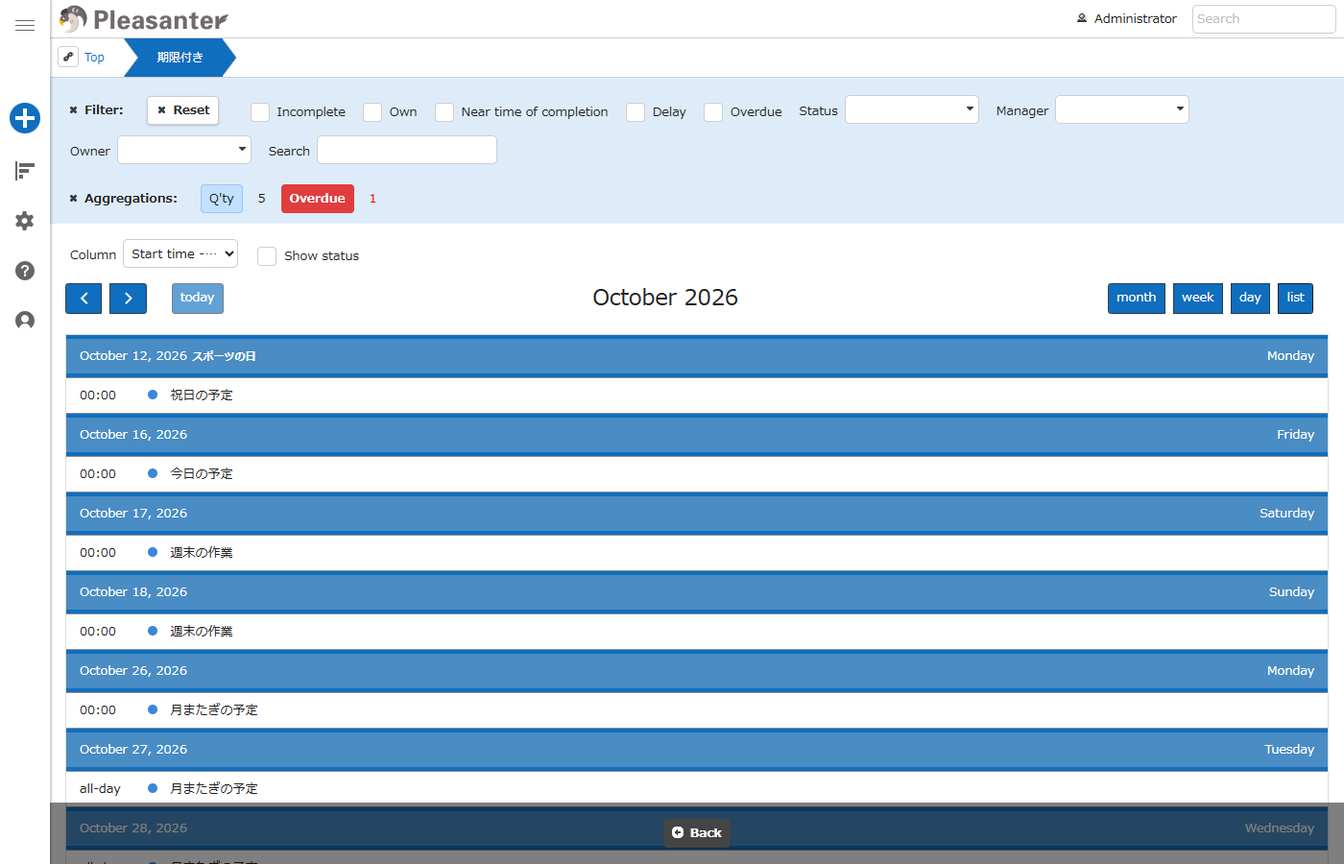
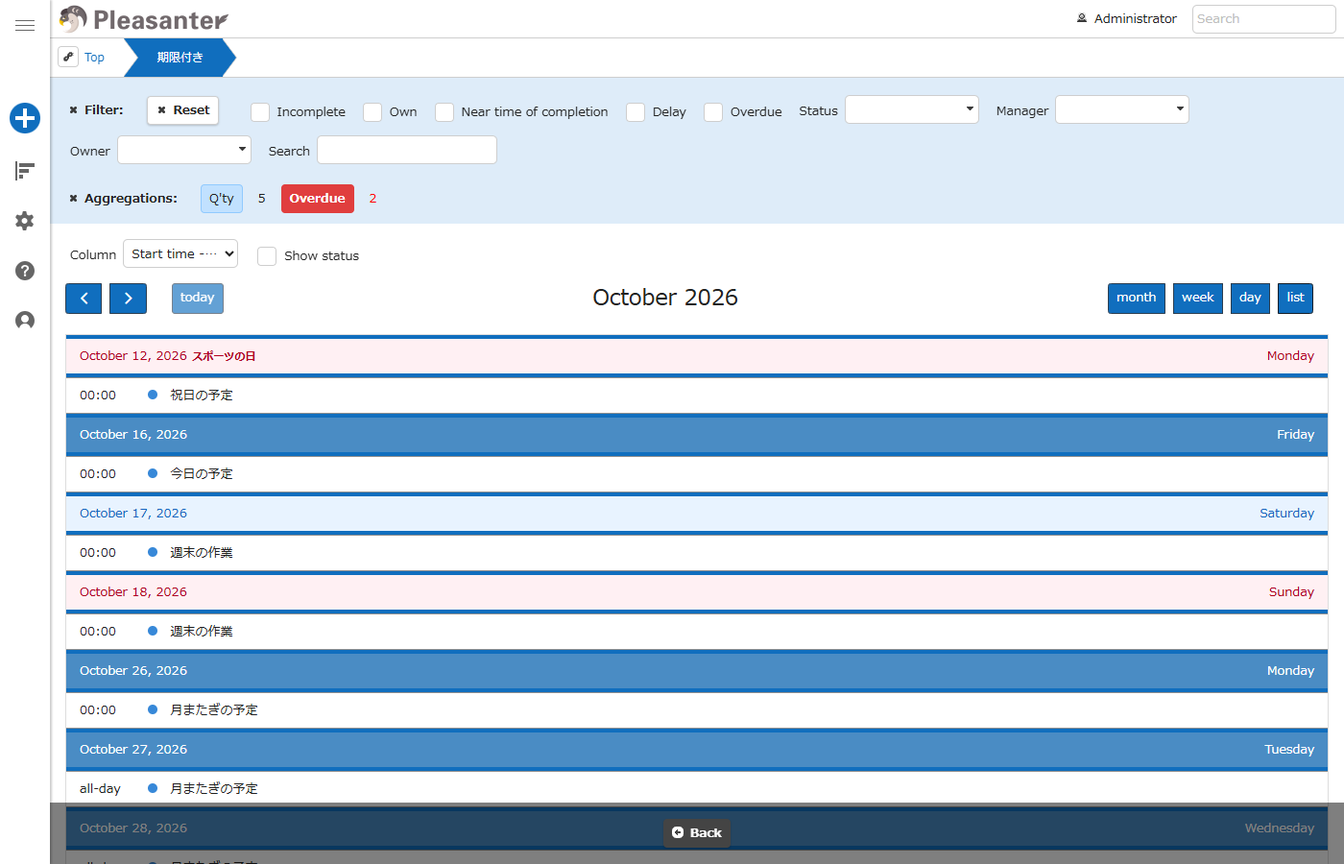
日付ごとの種類（日祝・土・平日）と取得元の併用、FullCalendar リスト表示の土日の色を追加する
- CSV の第 3 列で日祝・土・平日を指定。優先順位は日祝 > 土 > 平日で、Google・iCal・CSV を日付ごとに 1 件へまとめる
- 平日は土日の色を打ち消す（土曜の振替出勤など）。FullCalendar の見出しとリストでは本体の既定のまま
- FullCalendar のリスト表示で、土日・祝日の日付行に色を付ける
- 実機（Docker）で月曜始まり・日曜始まりを確認

Changed region(s): [[0.0307, 0.6533, 1.0, 0.7156], [0.0307, 0.56, 1.0, 0.6222], [0.0307, 0.3733, 1.0, 0.4356]]

diff --git a/src/CalendarStyleCreator/CssGenerator.cs b/src/CalendarStyleCreator/CssGenerator.cs
@@ -4,14 +4,14 @@ using System.Text.RegularExpressions;
 
 namespace VehicleVision.PleasanterTools.CalendarStyleCreator;
 
-/// <summary>色の指定。背景色は日曜・祝日と土曜、文字色は日付の数字に使う。#rgb / #rrggbb / #rrggbbaa または英字の色名のみ。</summary>
-public sealed record CalendarTheme(string HolidayBackground = "#fff0f3", string SaturdayBackground = "#e8f3ff", string HolidayText = "#b00020", string SaturdayText = "#1565c0")
+/// <summary>色の指定。背景色は日曜・祝日と土曜と平日、文字色は日付の数字に使う。平日は土日の色を打ち消すための色（既定は背景なし・文字色は継承）。#rgb / #rrggbb / #rrggbbaa または英字の色名のみ。</summary>
+public sealed record CalendarTheme(string HolidayBackground = "#fff0f3", string SaturdayBackground = "#e8f3ff", string HolidayText = "#b00020", string SaturdayText = "#1565c0", string WeekdayBackground = "transparent", string WeekdayText = "inherit")
 {
     private static readonly Regex ColorPattern = new("^(#[0-9a-fA-F]{3,8}|[a-zA-Z]{3,30})$", RegexOptions.Compiled);
 
     public CalendarTheme Validate()
     {
-        foreach (var color in new[] { HolidayBackground, SaturdayBackground, HolidayText, SaturdayText })
+        foreach (var color in new[] { HolidayBackground, SaturdayBackground, HolidayText, SaturdayText, WeekdayBackground, WeekdayText })
             if (!ColorPattern.IsMatch(color)) throw new UserError("Color must be like #fff0f3 or a color name.");
         return this;
     }
@@ -51,11 +51,10 @@ public static class CssGenerator
     {
         theme.Validate();
         if (firstDayOfWeek is < 0 or > 6) throw new UserError("First day of week must be 0 (Sunday) to 6 (Saturday).");
-        var byDate = new SortedDictionary<DateOnly, string>();
-        foreach (var holiday in holidays) byDate[holiday.Date] = holiday.Name;
+        var resolved = DayResolver.Resolve(holidays);
         var years = new SortedDictionary<int, string>();
         for (var year = fromYear; year <= toYear; year++)
-            years[year] = Year(year, byDate.Where(h => h.Key.Year == year).ToDictionary(h => h.Key, h => h.Value), theme);
+            years[year] = Year(year, resolved.Where(h => h.Key.Year == year).ToDictionary(h => h.Key, h => h.Value), theme);
         return new GeneratedStyles(Core(theme, firstDayOfWeek), years);
     }
 
@@ -78,38 +77,76 @@ public static class CssGenerator
         return css.ToString();
     }
 
-    private static string Year(int year, Dictionary<DateOnly, string> holidays, CalendarTheme theme)
+    private static (string Background, string Text) Colors(DayType type, CalendarTheme theme) => type switch
     {
-        var css = new StringBuilder($"/* Generated by CalendarStyleCreator. Do not edit. */\n/* {year}: holidays and holiday names. Weekend colors are in the core style. */\n");
+        DayType.Holiday => (theme.HolidayBackground, theme.HolidayText),
+        DayType.Saturday => (theme.SaturdayBackground, theme.SaturdayText),
+        _ => (theme.WeekdayBackground, theme.WeekdayText),
+    };
+
+    private static string Year(int year, Dictionary<DateOnly, Holiday> days, CalendarTheme theme)
+    {
+        var css = new StringBuilder($"/* Generated by CalendarStyleCreator. Do not edit. */\n/* {year}: dates with a day type (holiday / Saturday / weekday), their names, and the FullCalendar list view. Weekend colors are in the core style. */\n");
         void Rule(IEnumerable<string> selectors, string declarations)
         {
             var list = selectors.ToList();
             if (list.Count > 0) css.Append(string.Join(",\n", list)).Append(" { ").Append(declarations).Append(" }\n");
         }
-        // 標準カレンダーの祝日。土日の色（Core）は構造の条件に :where() を使い詳細度が低いので、読み込み順に依らず祝日の色が勝つ。
+        // 日付ごとの色は日祝・土・平日の 3 種類。1 日には最も優先順位の高い種類だけが残っている（DayResolver）。
+        // 土日の色（Core）は構造の条件に :where() を使い詳細度が低いので、読み込み順に依らず日付ごとの指定が勝つ。
         // 同じ宣言の日付は :is() で 1 つの規則にまとめ、セレクターの前半の繰り返しを避けてサイズを抑える（:is() の詳細度は引数の最大で、1 日分のときと同じ）。
-        var dates = holidays.Keys.OrderBy(d => d).ToList();
-        Rule([MonthlyIs(dates), WeeklyIs(dates)], $"background-color: {theme.HolidayBackground};");
-        Rule([MonthlyIs(dates) + " .day"], $"color: {theme.HolidayText};");
-        // FullCalendar の祝日。曜日クラス（Core）より詳細度が高いので、土曜の祝日も祝日の色になる。
-        Rule([$"{Full} td{FullIs(dates)}:not(.fc-day-other)", $"{Full} th{FullIs(dates)}"], $"background-color: {theme.HolidayBackground};");
-        Rule([$"{Full} td.fc-daygrid-day{FullIs(dates)}:not(.fc-day-other) .fc-daygrid-day-number"], $"color: {theme.HolidayText};");
-        // 週・日表示の見出し（th）は本体の既定が白文字のため、祝日が平日でも文字色を変える（背景は上の th ルール）。
-        Rule([$"{Full} th.fc-col-header-cell{FullIs(dates)} .fc-col-header-cell-cushion"], $"color: {theme.HolidayText};");
-
-        var named = dates.Where(d => holidays[d].Length > 0).ToList();
-        // 標準カレンダーの .day は 24px 幅の中央寄せなので、祝日名を足すと数字に重なる。名称のある祝日は幅を自動にして数字の右に並べる。
-        Rule([MonthlyIs(named) + " .day"], "width: auto; min-width: 24px; padding: 0 4px; justify-content: flex-start;");
-        Rule([WeeklyIs(named)], "position: relative;");
-        foreach (var date in named)
+        foreach (var type in new[] { DayType.Holiday, DayType.Saturday, DayType.Weekday })
         {
-            var label = $"content: \"{EscapeString(holidays[date])}\"; margin-left: 0.5em; font-size: 0.85em; font-weight: 600; white-space: nowrap;";
+            var dates = days.Values.Where(d => d.Type == type).Select(d => d.Date).OrderBy(d => d).ToList();
+            if (dates.Count == 0) continue;
+            var (background, text) = Colors(type, theme);
+            Rule([MonthlyOrWeeklyIs(dates)], $"background-color: {background};");
+            Rule([MonthlyIs(dates) + " .day"], $"color: {text};");
+            // FullCalendar。曜日クラス（Core）より詳細度が高いので、土日の列にある日も指定した種類の色になる。
+            Rule([$"{Full} td{FullIs(dates)}:not(.fc-day-other)"], $"background-color: {background};");
+            Rule([$"{Full} td.fc-daygrid-day{FullIs(dates)}:not(.fc-day-other) .fc-daygrid-day-number"], $"color: {text};");
+            // 週・日表示の見出し（th）。本体の既定は青地に白文字なので、日祝・土の色（背景と文字色）をそのまま付ける。
+            // 平日は「打ち消す」色（透明）にすると見出しの青地まで消えて読めなくなるため、見出しには付けない（日の中身のセルだけ打ち消す）。
+            if (type != DayType.Weekday)
+            {
+                Rule([$"{Full} th{FullIs(dates)}"], $"background-color: {background};");
+                Rule([$"{Full} th.fc-col-header-cell{FullIs(dates)} .fc-col-header-cell-cushion"], $"color: {text};");
+            }
+        }
+
+        // FullCalendar のリスト表示。日の行（tr.fc-list-day）には曜日クラスがないため、土日も日付で指定する（Core では指定できない）。
+        var listTypes = new Dictionary<DateOnly, DayType>();
+        for (var day = new DateOnly(year, 1, 1); day.Year == year; day = day.AddDays(1))
+        {
+            // 平日は「打ち消す」色（透明）にすると日の見出しの地の色が出てしまうため、リストでは何も付けず本体の既定のままにする。
+            if (days.TryGetValue(day, out var entry)) { if (entry.Type != DayType.Weekday) listTypes[day] = entry.Type; }
+            else if (day.DayOfWeek == DayOfWeek.Saturday) listTypes[day] = DayType.Saturday;
+            else if (day.DayOfWeek == DayOfWeek.Sunday) listTypes[day] = DayType.Holiday;
+        }
+        foreach (var type in new[] { DayType.Holiday, DayType.Saturday, DayType.Weekday })
+        {
+            var dates = listTypes.Where(p => p.Value == type).Select(p => p.Key).OrderBy(d => d).ToList();
+            if (dates.Count == 0) continue;
+            var (background, text) = Colors(type, theme);
+            Rule([$"{Full} tr.fc-list-day{FullIs(dates)} .fc-list-day-cushion"], $"background-color: {background};");
+            Rule([$"{Full} tr.fc-list-day{FullIs(dates)} :is(.fc-list-day-text, .fc-list-day-side-text)"], $"color: {text};");
+        }
+
+        var named = days.Values.Where(d => d.Name.Length > 0).OrderBy(d => d.Date).ToList();
+        // 標準カレンダーの .day は 24px 幅の中央寄せなので、名称を足すと数字に重なる。名称のある日は幅を自動にして数字の右に並べる。
+        Rule([MonthlyIs(named.Select(d => d.Date)) + " .day"], "width: auto; min-width: 24px; padding: 0 4px; justify-content: flex-start;");
+        Rule([WeeklyIs(named.Select(d => d.Date))], "position: relative;");
+        foreach (var entry in named)
+        {
+            var date = entry.Date;
+            var (background, text) = Colors(entry.Type, theme);
+            var label = $"content: \"{EscapeString(entry.Name)}\"; margin-left: 0.5em; font-size: 0.85em; font-weight: 600; white-space: nowrap;";
             var attribute = $"[data-date=\"{FullCalendarDate(date)}\"]";
             Rule([$"{Standard} td.container{DataId(date)}:not(.other-month) .day::after"], label);
-            // 標準カレンダーの週表示のセルには日付の数字（.day）がない。祝日名はセルの流れに入れず（入れると、その日だけ予定が下がり、日をまたぐ予定のバーがずれる）、
+            // 標準カレンダーの週表示のセルには日付の数字（.day）がない。名称はセルの流れに入れず（入れると、その日だけ予定が下がり、日をまたぐ予定のバーがずれる）、
             // セルの右上へ絶対配置で重ねる（予定のバーより手前に出し、読めるようにセルと同じ背景を敷く）。
-            Rule([WeeklyCell(date) + "::before"], label + $" position: absolute; z-index: 1; right: 0.4em; top: 0.25em; margin: 0; padding: 0 0.25em; border-radius: 3px; background-color: {theme.HolidayBackground}; pointer-events: none; color: {theme.HolidayText};");
-            // 月表示の .fc-daygrid-day-top は flex の row-reverse（数字が右、祝日名が左）。数字は上下に余白を持つため、祝日名も縦中央に揃える。
+            Rule([WeeklyCell(date) + "::before"], label + $" position: absolute; z-index: 1; right: 0.4em; top: 0.25em; margin: 0; padding: 0 0.25em; border-radius: 3px; background-color: {background}; pointer-events: none; color: {text};");
+            // 月表示の .fc-daygrid-day-top は flex の row-reverse（数字が右、名称が左）。数字は上下に余白を持つため、名称も縦中央に揃える。
             Rule([$"{Full} td.fc-daygrid-day{attribute}:not(.fc-day-other) .fc-daygrid-day-top::after"], label + " margin-left: 0; margin-right: 0.25em; align-self: center;");
             Rule([$"{Full} th.fc-col-header-cell{attribute} .fc-col-header-cell-cushion::after", $"{Full} .fc-list-day{attribute} .fc-list-day-text::after"], label);
         }
@@ -128,6 +165,9 @@ public static class CssGenerator
 
     // 週表示では、表示中の 7 日すべてが見える日なので、月をまたぐ日（.other-month）にも色を付ける。
     private static string WeeklyIs(IEnumerable<DateOnly> dates) => $"{Standard} td.container.is-weekly{StandardIs(dates)}";
+
+    // 月表示と週表示のセルを 1 つの選択子にまとめる（日付の一覧を 1 回だけ書く）。月表示は :has() で年表示のセルを除く。
+    private static string MonthlyOrWeeklyIs(IEnumerable<DateOnly> dates) => $"{Standard} td.container:is(.is-weekly, :has(> div > .day):not(.other-month)){StandardIs(dates)}";
 
     private static string WeeklyCell(DateOnly date) => $"{Standard} td.container.is-weekly{DataId(date)}";
 

diff --git a/tests/CalendarStyleCreator.Tests/Program.cs b/tests/CalendarStyleCreator.Tests/Program.cs
@@ -137,18 +137,34 @@ try
 }
 finally { Directory.Delete(configDir, true); }
 
-// CSS（共通部 + 年ごと）
 var theme = new CalendarTheme();
+// 日付ごとの種類（日祝・土・平日）と、取得元の併用
+var csvTyped = CsvHolidaySource.Parse("2026-10-10,振替出勤,平日\n2026-10-11,会社の土曜扱い,土\n2026-10-12,スポーツの日\n2026-10-13,x,holiday\n2026-10-14,y,SAT\n2026-10-15,z,");
+Check(csvTyped.Select(h => h.Type).SequenceEqual([DayType.Weekday, DayType.Saturday, DayType.Holiday, DayType.Holiday, DayType.Saturday, DayType.Holiday]), "CSV type column: 平日 / 土 / default holiday / holiday / SAT / empty");
+Reject(() => CsvHolidaySource.Parse("2026-10-10,x,unknown"), "CSV invalid type");
+var d1 = new DateOnly(2026, 10, 10);
+var merged = DayResolver.Resolve([new(d1, "G", DayType.Holiday), new(d1, "C", DayType.Weekday), new(d1, "G", DayType.Holiday), new(d1, "H2", DayType.Holiday), new(new DateOnly(2026, 10, 11), "S", DayType.Saturday), new(new DateOnly(2026, 10, 11), "W", DayType.Weekday), new(new DateOnly(2026, 10, 12), "W", DayType.Weekday)]);
+Check(merged[d1].Type == DayType.Holiday && merged[d1].Name == "G / H2", "Priority holiday > weekday: the lower type and its name are dropped, same-type names are joined without duplicates");
+Check(merged[new DateOnly(2026, 10, 11)] == new Holiday(new DateOnly(2026, 10, 11), "S", DayType.Saturday) && merged[new DateOnly(2026, 10, 12)].Type == DayType.Weekday, "Priority saturday > weekday; weekday alone stays");
+var typed = CssGenerator.Generate([new(new DateOnly(2026, 10, 10), "振替出勤", DayType.Weekday), new(new DateOnly(2026, 10, 11), "土曜扱い", DayType.Saturday), new(new DateOnly(2026, 10, 12), "祝", DayType.Holiday), new(new DateOnly(2026, 10, 12), "平日にしたい", DayType.Weekday)], theme, 2026, 2026).Years[2026];
+Check(typed.Contains("td.container:is(.is-weekly, :has(> div > .day):not(.other-month)):is([data-id=\"2026/10/10\"]) { background-color: transparent; }") && typed.Contains(".day { color: inherit; }"), "Weekday type resets the weekend colors for that date");
+Check(typed.Contains("td.container:is(.is-weekly, :has(> div > .day):not(.other-month)):is([data-id=\"2026/10/11\"]) { background-color: " + theme.SaturdayBackground + "; }"), "Saturday type uses the Saturday colors on any date");
+Check(typed.Contains("td.container:is(.is-weekly, :has(> div > .day):not(.other-month)):is([data-id=\"2026/10/12\"]) { background-color: " + theme.HolidayBackground + "; }") && !typed.Contains("平日にしたい"), "Holiday beats weekday on the same date (the weekday entry and its name are dropped)");
+Check(typed.Contains("tr.fc-list-day:is(") && typed.Contains("[data-date=\"2026-01-03\"]") && typed.Contains(".fc-list-day-cushion { background-color: " + theme.SaturdayBackground + "; }") && typed.Contains(".fc-list-day-cushion { background-color: " + theme.HolidayBackground + "; }"), "FullCalendar list view: weekends are colored by date");
+Check(!System.Text.RegularExpressions.Regex.IsMatch(typed, "(th|tr\\.fc-list-day)[^{}]*\\[data-date=\"2026-10-10\"\\][^{}]*\\{ (background-color|color):"), "Weekday type is not applied to FullCalendar headers or list rows (the defaults stay)");
+Check(typed.Length < 30000, "Per-year size with the list view weekends stays small");
+
+// CSS（共通部 + 年ごと）
 var generated = CssGenerator.Generate([new(new DateOnly(2026, 2, 11), "B"), new(new DateOnly(2026, 1, 1), "A"), new(new DateOnly(2026, 1, 1), "A2"), new(new DateOnly(2027, 1, 1), "C")], theme, 2026, 2027);
 var css = generated.Years[2026];
 Check(generated.Years.Keys.SequenceEqual([2026, 2027]), "One style per year in the range");
 Check(!generated.Years[2026].Contains("2027/1/1") && generated.Years[2027].Contains("[data-id=\"2027/1/1\"]") && !generated.Years[2027].Contains("2026/1/1"), "Each year file contains only its own dates");
 Check(generated.Core.Contains(".fc-day-sat:where(:not(.fc-day-other)) {") && generated.Core.Contains(".fc-day-sun:where(:not(.fc-day-other)) {") && !generated.Core.Contains("data-id") && !generated.Core.Contains("data-date"), "Core holds only the FullCalendar weekday classes, no dates");
 Check(!css.Contains(".fc-day-sat"), "Year files do not repeat the weekday classes");
-Check(css.Contains("td.container:has(> div > .day):is([data-id=\"2026/1/1\"],[data-id=\"2026/2/11\"]):not(.other-month)"), "Standard monthly cells share one :is() rule, no zero padding, exclude other month and yearly view");
-Check(css.Contains("td.container.is-weekly:is([data-id=\"2026/1/1\"],[data-id=\"2026/2/11\"])"), "Standard weekly cells");
+Check(css.Contains("td.container:is(.is-weekly, :has(> div > .day):not(.other-month)):is([data-id=\"2026/1/1\"],[data-id=\"2026/2/11\"])"), "Standard monthly and weekly cells share one :is() rule, no zero padding, exclude other month (monthly) and the yearly view");
+Check(css.Contains("td.container.is-weekly:is([data-id=\"2026/1/1\"],[data-id=\"2026/2/11\"])"), "Weekly cells are also grouped for the position rule");
 Check(css.Contains("td.fc-daygrid-day[data-date=\"2026-01-01\"]:not(.fc-day-other) .fc-daygrid-day-top::after"), "FullCalendar day label");
-Check(css.Contains("content: \"A2\"") && !css.Contains("content: \"A\""), "Last duplicate wins");
+Check(css.Contains("content: \"A / A2\""), "Same-type names on one date are joined with  / ");
 Check(!css.Contains("[data-id=\"2026/1/3\"]") && !css.Contains("[data-id=\"2026/1/4\"]") && css.Length < 20000, "Year files hold only holidays (weekends are not listed by date), so they stay small");
 Check(css.Contains(":is(#CalendarBody, [id^=\"CalendarBody\"]) td.container") && css.Contains(":is(#FullCalendar, [id^=\"FullCalendar\"]).calendar-container"), "Selectors outweigh the built-in #CalendarBody td / #FullCalendar td rules (verified on a real Pleasanter)");
 Check(css.Contains("th.fc-col-header-cell:is([data-date=\"2026-01-01\"],[data-date=\"2026-02-11\"]) .fc-col-header-cell-cushion") && css.Contains(":is([data-id=\"2026/1/1\"],[data-id=\"2026/2/11\"]):not(.other-month) .day { width: auto"), "Holiday header text color and widened .day for the label");
@@ -159,7 +175,7 @@ Reject(() => CssGenerator.Generate([], theme, 2026, 2026, 7), "First day of week
 Check(Options.Parse(["generate", "/csv", "h.csv", "/output", "o", "/first-day-of-week", "0"]).FirstDayOfWeek == 0 && Options.Parse(["generate", "/csv", "h.csv", "/output", "o"]).FirstDayOfWeek == 1, "/first-day-of-week (default Monday)");
 Reject(() => Options.Parse(["generate", "/csv", "h.csv", "/output", "o", "/first-day-of-week", "7"]), "/first-day-of-week out of range");
 Check(css.Contains("position: absolute") && css.Contains("td.container.is-weekly[data-id=\"2026/1/1\"]::before"), "Weekly label is absolutely positioned so multi-day bars do not shift");
-Check(css == CssGenerator.Generate([new(new DateOnly(2026, 1, 1), "A2"), new(new DateOnly(2026, 2, 11), "B")], theme, 2026, 2026).Years[2026], "CSS is deterministic and independent of other years");
+Check(css == CssGenerator.Generate([new(new DateOnly(2026, 1, 1), "A"), new(new DateOnly(2026, 1, 1), "A2"), new(new DateOnly(2026, 2, 11), "B")], theme, 2026, 2026).Years[2026], "CSS is deterministic and independent of other years");
 Check(CssGenerator.EscapeString("a\"b\\c</style>\n") == "a\\\"b\\\\c\\3c /style\\3e  ", "CSS string escape");
 Check(!CssGenerator.Generate([new(new DateOnly(2026, 1, 1), "")], theme, 2026, 2026).Years[2026].Contains("::after"), "CSS omits label for empty name");
 Reject(() => new CalendarTheme(HolidayBackground: "red; } body { display:none").Validate(), "Color injection is rejected");

diff --git a/src/CalendarStyleCreator/Model.cs b/src/CalendarStyleCreator/Model.cs
@@ -3,8 +3,33 @@ namespace VehicleVision.PleasanterTools.CalendarStyleCreator;
 /// <summary>利用者の入力・設定が原因のエラー。メッセージはそのままコンソールへ出す（秘密情報を含めない）。</summary>
 public sealed class UserError(string message) : Exception(message);
 
-/// <summary>休日 1 日分。日付は暦日（時刻とタイムゾーンを持たない）。</summary>
-public sealed record Holiday(DateOnly Date, string Name);
+/// <summary>
+/// 日付ごとの色の種類。値が大きいほど優先順位が高い（日祝 &gt; 土 &gt; 平日）。
+/// 日祝は日曜・祝日と同じ色、土は土曜と同じ色、平日は土日の色を打ち消して通常の色にする（土曜の振替出勤日など）。
+/// </summary>
+public enum DayType { Weekday = 0, Saturday = 1, Holiday = 2 }
+
+/// <summary>日付ごとの指定 1 件（休日・名称・色の種類）。日付は暦日（時刻とタイムゾーンを持たない）。取得元（Google・iCal）は日祝、CSV は種類の列で指定する。</summary>
+public sealed record Holiday(DateOnly Date, string Name, DayType Type = DayType.Holiday);
+
+public static class DayResolver
+{
+    /// <summary>
+    /// 取得元をまたいで日付ごとに 1 件へまとめる。同じ日付に複数あるときは、最も優先順位の高い種類（日祝 &gt; 土 &gt; 平日）だけを残し、
+    /// 低い種類は名称ごと捨てる。同じ種類の名称は、出てきた順に「 / 」でつなぐ（重複は 1 つにする）。
+    /// </summary>
+    public static Dictionary<DateOnly, Holiday> Resolve(IEnumerable<Holiday> entries)
+    {
+        var result = new Dictionary<DateOnly, Holiday>();
+        foreach (var group in entries.GroupBy(e => e.Date))
+        {
+            var type = group.Max(e => e.Type);
+            var names = group.Where(e => e.Type == type).Select(e => e.Name).Where(n => n.Length > 0).Distinct(StringComparer.Ordinal);
+            result[group.Key] = new Holiday(group.Key, string.Join(" / ", names), type);
+        }
+        return result;
+    }
+}
 
 /// <summary>休日の取得元。Google カレンダーと CSV を同じ形で扱う。</summary>
 public interface IHolidaySource

diff --git a/src/CalendarStyleCreator/CsvHolidaySource.cs b/src/CalendarStyleCreator/CsvHolidaySource.cs
@@ -3,7 +3,8 @@ using System.Globalization;
 namespace VehicleVision.PleasanterTools.CalendarStyleCreator;
 
 /// <summary>
-/// 「日付,名前」の CSV から休日を読む。内閣府「国民の祝日」CSV（syukujitsu.csv）の形式をそのまま読める
+/// 「日付,名前[,種類]」の CSV から日付ごとの指定を読む。種類は 日祝（既定。祝日・日曜と同じ色）・土（土曜と同じ色）・平日（土日の色を打ち消す）で、
+/// 日祝 / 祝日 / holiday、土 / 土曜 / sat、平日 / weekday のいずれかを書く（大文字小文字は区別しない）。内閣府「国民の祝日」CSV（syukujitsu.csv）の形式をそのまま読める
 /// （https://www8.cao.go.jp/chosei/shukujitsu/syukujitsu.csv、Shift_JIS・ヘッダー 1 行・y/M/d、1955 年〜、確認 2026-10-16）。
 /// 文字コードは UTF-8（BOM 有無）を優先し、UTF-8 として不正なら Shift_JIS（CP932）として読む。
 /// 日付は yyyy-MM-dd / yyyy/M/d。ヘッダー行・空行・# 始まりの行は読み飛ばす。名前に , を含める場合は "..." で囲む（"" は " のエスケープ）。
@@ -45,10 +46,18 @@ public sealed class CsvHolidaySource(string path) : IHolidaySource
                 if (holidays.Count == 0 && lineNumber == 1) continue; // ヘッダー行
                 throw new UserError($"CSV line {lineNumber}: invalid date.");
             }
-            holidays.Add(new Holiday(date, fields[1].Trim()));
+            holidays.Add(new Holiday(date, fields[1].Trim(), fields.Count > 2 && fields[2].Trim().Length > 0 ? ParseType(fields[2].Trim(), lineNumber) : DayType.Holiday));
         }
         return holidays;
     }
+
+    private static DayType ParseType(string text, int lineNumber) => text.ToLowerInvariant() switch
+    {
+        "日祝" or "祝日" or "祝" or "日" or "holiday" => DayType.Holiday,
+        "土" or "土曜" or "土曜日" or "sat" or "saturday" => DayType.Saturday,
+        "平日" or "平" or "weekday" => DayType.Weekday,
+        _ => throw new UserError($"CSV line {lineNumber}: type must be one of 日祝 / 土 / 平日 (holiday / saturday / weekday)."),
+    };
 
     private static List<string> SplitFields(string row, int lineNumber)
     {

diff --git a/src/CalendarStyleCreator/Options.cs b/src/CalendarStyleCreator/Options.cs
@@ -13,7 +13,7 @@ public sealed record Options(string Action, IReadOnlyList<string> CsvPaths, IRea
     public const string IcalBasicPasswordVariable = "CALENDARSTYLE_ICAL_BASIC_PASSWORD";
     public const string PleasanterApiKeyVariable = "CALENDARSTYLE_PLEASANTER_API_KEY";
 
-    private static readonly string[] ValueOptions = ["parameters", "p", "csv", "calendar-id", "ical-url", "from", "to", "prefix", "first-day-of-week", "site-id", "tenant-id", "output", "url", "holiday-bg", "saturday-bg", "holiday-text", "saturday-text"];
+    private static readonly string[] ValueOptions = ["parameters", "p", "csv", "calendar-id", "ical-url", "from", "to", "prefix", "first-day-of-week", "site-id", "tenant-id", "output", "url", "holiday-bg", "saturday-bg", "holiday-text", "saturday-text", "weekday-bg", "weekday-text"];
     private static readonly string[] FlagOptions = ["prune"];
     private static readonly string[] PathOptions = ["parameters", "p", "csv", "output"];
 
@@ -56,7 +56,7 @@ public sealed record Options(string Action, IReadOnlyList<string> CsvPaths, IRea
         IReadOnlyList<string> csv = V("csv") != null ? [V("csv")!] : config.Csv ?? [];
 
         var defaults = config.Theme ?? new CalendarTheme();
-        var theme = new CalendarTheme(V("holiday-bg") ?? defaults.HolidayBackground, V("saturday-bg") ?? defaults.SaturdayBackground, V("holiday-text") ?? defaults.HolidayText, V("saturday-text") ?? defaults.SaturdayText).Validate();
+        var theme = new CalendarTheme(V("holiday-bg") ?? defaults.HolidayBackground, V("saturday-bg") ?? defaults.SaturdayBackground, V("holiday-text") ?? defaults.HolidayText, V("saturday-text") ?? defaults.SaturdayText, V("weekday-bg") ?? defaults.WeekdayBackground, V("weekday-text") ?? defaults.WeekdayText).Validate();
         var firstDay = CssGenerator.DefaultFirstDayOfWeek;
         if (V("first-day-of-week") != null)
         {

diff --git a/src/CalendarStyleCreator/ParameterFiles.cs b/src/CalendarStyleCreator/ParameterFiles.cs
@@ -41,7 +41,7 @@ public sealed class ParameterFiles
     private static readonly string[] HolidaysKeys = ["GoogleCalendarIds", "IcalUrls", "CsvFiles", "FromYear", "ToYear"];
     private static readonly string[] StyleKeys = ["Prefix", "FirstDayOfWeek", "Colors"];
     private static readonly string[] PlacementKeys = ["OutputPath", "PleasanterPath", "Url", "TenantId", "SiteIdList", "Prune"];
-    private static readonly string[] ColorKeys = ["HolidayBackground", "SaturdayBackground", "HolidayText", "SaturdayText"];
+    private static readonly string[] ColorKeys = ["HolidayBackground", "SaturdayBackground", "HolidayText", "SaturdayText", "WeekdayBackground", "WeekdayText"];
     private static readonly string[] IcalKeys = ["Url", "BearerTokenEnv", "BasicUserEnv", "BasicPasswordEnv"];
 
     /// <summary>既定のフォルダ（このツールの App_Data/Parameters）。無ければ null。</summary>
@@ -154,6 +154,6 @@ public sealed class ParameterFiles
         CheckKeys(value, ColorKeys, "Colors");
         var defaults = new CalendarTheme();
         string Pick(string key, string fallback) => value.TryGetProperty(key, out var v) && v.ValueKind != JsonValueKind.Null ? Str(v, key) : fallback;
-        return new CalendarTheme(Pick("HolidayBackground", defaults.HolidayBackground), Pick("SaturdayBackground", defaults.SaturdayBackground), Pick("HolidayText", defaults.HolidayText), Pick("SaturdayText", defaults.SaturdayText)).Validate();
+        return new CalendarTheme(Pick("HolidayBackground", defaults.HolidayBackground), Pick("SaturdayBackground", defaults.SaturdayBackground), Pick("HolidayText", defaults.HolidayText), Pick("SaturdayText", defaults.SaturdayText), Pick("WeekdayBackground", defaults.WeekdayBackground), Pick("WeekdayText", defaults.WeekdayText)).Validate();
     }
 }

diff --git a/src/CalendarStyleCreator/Program.cs b/src/CalendarStyleCreator/Program.cs
@@ -27,9 +27,9 @@ public static class Program
                                                   Default: {GoogleCalendarHolidaySource.JapaneseHolidays}; "none" = CSV only
                       /ical-url <url,...>         iCal (.ics) https URLs, comma separated. Alone, it replaces the default calendar.
                                                   Auth for all URLs: env {Options.IcalBearerTokenVariable}, or {Options.IcalBasicUserVariable} + {Options.IcalBasicPasswordVariable}
-                      /csv <file>                 Extra holidays from a CSV file ("date,name" per line); overrides Google on the same date
+                      /csv <file>                 Extra holidays from a CSV file ("date,name[,type]" per line; type = holiday / saturday / weekday, default holiday). Combines with calendars: per date, holiday > saturday > weekday
                       /from <year> /to <year>     Output year range for holidays and weekends (default: this year and next)
-                      /holiday-bg /saturday-bg /holiday-text /saturday-text <color>   Colors (#rrggbb or name)
+                      /holiday-bg /saturday-bg /weekday-bg /holiday-text /saturday-text /weekday-text <color>   Colors (#rrggbb or name)
                       /first-day-of-week <0-6>    First day of the week of the standard calendar: 0=Sunday .. 6=Saturday (default: 1, as in General.json)
                       /prefix <text>              Name prefix of the generated styles (default: {Options.DefaultPrefix}). Styles: <prefix>core and <prefix><year>
                       /prune                      Delete managed styles (names starting with the prefix) that are no longer generated

diff --git a/README.md b/README.md
@@ -9,6 +9,7 @@ Pleasanter のカレンダー表示で休日を色分け・名称表示するた
 - 日曜・祝日の背景色と日付の文字色（同じ色）
 - 土曜日の背景色と日付の文字色
 - 祝日名（標準カレンダーの月・週表示、FullCalendar の月・週・日・リスト表示）
+- FullCalendar のリスト表示も、土日・祝日の日付行に色を付ける
 
 ## 配置方式
 
@@ -33,7 +34,7 @@ dotnet VehicleVision.PleasanterTools.CalendarStyleCreator.dll generate /p "C:\we
 | `/ical-url <url,...>` | iCal（.ics）の https URL をカンマ区切りで複数指定。`IcalUrls` を上書き。既定の日本の祝日にも足される |
 | `/csv <file>` | CSV からも読む。同じ日付は CSV が優先 |
 | `/from 2026 /to 2027` | 出力する年の範囲（既定: 今年と来年）。範囲外の休日と土日は出力しない |
-| `/holiday-bg` `/saturday-bg` `/holiday-text` `/saturday-text` | 色（`#rrggbb` または色名） |
+| `/holiday-bg` `/saturday-bg` `/weekday-bg` `/holiday-text` `/saturday-text` `/weekday-text` | 色（`#rrggbb` または色名）。平日の既定は背景なし（`transparent`）・文字色は継承（`inherit`） |
 | `/p <フォルダ>` | `generate` の出力先を、本体フォルダ（`App_Data` のある `Implem.Pleasanter` またはその親）から決める。CodeDefiner と同じ指定。省略時は、このツールの兄弟フォルダ `Implem.Pleasanter` を使う |
 | `/output <フォルダ>` | `generate` の出力先を直接指定（`/p` より優先） |
 | `/site-id 1,2` | 適用サイトを限定（`register` のみ。省略時は全サイト） |
@@ -58,7 +59,21 @@ dotnet VehicleVision.PleasanterTools.CalendarStyleCreator.dll generate /ical-url
 
 https のみ使えます。認証付きの場合はリダイレクトを追従せず、資格情報を別のホストへ送りません。Google の「非公開 iCal 形式のアドレス」のように URL 自体が秘密の場合も `/ical-url` で指定できます（URL はメッセージに出しません）。
 
-CSV は [内閣府の「国民の祝日」CSV](https://www8.cao.go.jp/chosei/shukujitsu/syukujitsu.csv) をそのまま読めます（Shift_JIS・UTF-8 どちらも可）。自作する場合は `日付,名前` の 1 行 1 休日です（例: [examples/holidays.csv](examples/holidays.csv)）。
+## CSV と取得元の併用
+
+CSV は [内閣府の「国民の祝日」CSV](https://www8.cao.go.jp/chosei/shukujitsu/syukujitsu.csv) をそのまま読めます（Shift_JIS・UTF-8 どちらも可）。自作する場合は `日付,名前[,種類]` の 1 行 1 日です（例: [examples/holidays.csv](examples/holidays.csv)）。
+
+Google カレンダー（`GoogleCalendarIds`）・iCal・CSV は併用でき、すべての取得元の日付を 1 つにまとめます。日付ごとの色は 3 種類で、CSV の第 3 列（種類）で指定します。Google カレンダーと iCal の予定は日祝です。
+
+| 種類（CSV の第 3 列） | 色 |
+| --- | --- |
+| `日祝`（既定。`祝日`・`holiday` も可） | 日曜・祝日の色 |
+| `土`（`土曜`・`sat` も可） | 土曜の色 |
+| `平日`（`weekday` も可） | 土日の色を打ち消して通常の色にする（土曜の振替出勤日など） |
+
+同じ日付が複数あるときの優先順位は **日祝 > 土 > 平日** です。優先順位の高い種類だけが残り、低い種類は名称ごと捨てます（例: Google の祝日に `平日` を指定しても祝日のまま）。同じ種類の名称は「 / 」でつなぎます。
+
+平日の指定は、標準カレンダーの月・週表示と FullCalendar の月・週・日表示の日のセルが対象です。FullCalendar の曜日見出しとリスト表示の日付行は、平日にしても本体の既定のままです（土日の色は付きません）。
 
 標準カレンダーの土日は日付ごとに指定するため、出力範囲の年を過ぎると色が付かなくなります。年を跨ぐ前に再生成してください。
 
@@ -94,7 +109,7 @@ dotnet VehicleVision.PleasanterTools.CalendarStyleCreator.dll register /url http
 | ファイル | 内容 |
 | --- | --- |
 | `Holidays.json` | 取得元: `GoogleCalendarIds`（配列）、`IcalUrls`（配列。文字列、または `Url` と認証用の環境変数名を持つオブジェクト）、`CsvFiles`（配列）、`FromYear`、`ToYear` |
-| `Style.json` | 見た目と名前: `Prefix`、`FirstDayOfWeek`（0 日曜〜6 土曜）、`Colors`（`HolidayBackground`・`SaturdayBackground`・`HolidayText`・`SaturdayText`） |
+| `Style.json` | 見た目と名前: `Prefix`、`FirstDayOfWeek`（0 日曜〜6 土曜）、`Colors`（`HolidayBackground`・`SaturdayBackground`・`WeekdayBackground`・`HolidayText`・`SaturdayText`・`WeekdayText`） |
 | `Placement.json` | 配置: `OutputPath`、`PleasanterPath`、`Url`、`TenantId`、`SiteIdList`、`Prune` |
 
 ```json

diff --git a/_development/検証記録.md b/_development/検証記録.md
@@ -21,6 +21,8 @@
 | 2026-10-17 | 標準カレンダーの土日を、日付ごとの指定から列の位置（`:nth-of-type`、`FirstDayOfWeek` から計算）に変更。年ごとのファイルが約 80KB から約 31KB に縮小（共通部は約 1.8KB）。祝日の規則を `:is()` でまとめた | 実機: 月曜始まり・日曜始まりとも標準 359・FullCalendar 251 項目、NG 0 |
 | 2026-10-17 | 生成時の `/first-day-of-week` が Pleasanter 側の `FirstDayOfWeek` と食い違う場合（生成は月曜、本体は日曜） | 標準カレンダーで NG 58（土日の色が別の曜日に付く。想定どおり。値を合わせる必要がある） |
 | 2026-10-17 | パラメーターを Pleasanter の `App_Data/Parameters` に倣う構成（`Holidays.json`・`Style.json`・`Placement.json`）に変更。同梱の既定値が組み込みの既定と一致することを単体チェック（105 件）で確認 | 合格 |
+| 2026-10-17 | 日付ごとの種類（日祝・土・平日）と、Google カレンダー + CSV の併用。CSV の第 3 列で、土曜の振替出勤（平日）・日曜の平日扱い・水曜の土扱い・Google の祝日と競合する平日指定（祝日が勝つ）を指定して実機で確認 | 標準 357・FullCalendar 262 項目、NG 0（月曜始まり・日曜始まりとも） |
+| 2026-10-17 | FullCalendar のリスト表示で、土曜・日曜・祝日の日付行の背景と文字色（日付ごとの指定）。平日の指定は本体の既定のまま | OK（スクリーンショット `full-mon-list-2026-10.png`）。1 年のファイルは約 44KB |
 
 ## 実機での表示確認（2026-10-16）
 
@@ -66,5 +68,5 @@
 - ダッシュボードの部品としてのカレンダー（接尾辞付き ID、`.grid-stack-item .CalendarBody`・`.grid-stack-item .fc`）での表示
 - 既定のテーマ（cerulean）以外の本体テーマ、既定以外の色指定（`CalendarTheme` を変えた場合）、他の本体版（1.5.8.1 のみ）
 - 標準カレンダーの `/from`・`/to` の範囲外の日付（範囲外は色が付かない設計で、実機では未確認）
-- FullCalendar のリスト表示で土日の色は付けない（祝日名と祝日の見出しのみ）
+- 平日の指定は、FullCalendar の曜日見出しとリストの日付行には効かない（本体の既定のまま）
 - ブラウザは Chrome（Windows）のみ。スマートフォン幅の表示は未確認

diff --git a/_development/E2E手順.md b/_development/E2E手順.md
@@ -19,7 +19,7 @@
    ```powershell
    dotnet build -c Release
    New-Item -ItemType Directory -Force temp/e2e | Out-Null
-   "date,name`n2026-10-31,テスト土曜祝日`n2026-10-25,テスト日曜祝日" | Set-Content temp/e2e/extra.csv -Encoding utf8
+   "date,name,type`n2026-10-31,テスト土曜祝日`n2026-10-25,テスト日曜祝日`n2026-10-17,振替出勤,平日`n2026-10-18,日曜の平日扱い,平日`n2026-10-14,社内土曜扱い,土`n2026-10-12,競合する平日,平日`n2026-10-13,祝日名,日祝" | Set-Content temp/e2e/extra.csv -Encoding utf8
    dotnet src/CalendarStyleCreator/bin/Release/net10.0/VehicleVision.PleasanterTools.CalendarStyleCreator.dll generate /output temp/e2e/out /csv temp/e2e/extra.csv
    ```
 
@@ -74,7 +74,7 @@
 ## 期待する結果
 
 - 標準カレンダーの月・週・年表示、FullCalendar の月・週・日・リスト表示で、`verify.mjs` の NG が 0 件。
-- 日曜・祝日は同じ背景色と文字色、土曜は別の背景色と文字色。土曜の祝日（検証用 2026-10-31）は祝日の色。
+- 日曜・祝日は同じ背景色と文字色、土曜は別の背景色と文字色。土曜の祝日（検証用 2026-10-31）は祝日の色。`extra.csv` の種類の指定（土曜の平日扱い 10/17、日曜の平日扱い 10/18、水曜の土扱い 10/14、Google の祝日 10/12 と競合する平日指定は祝日が勝つ）が反映される。`verify.mjs` は作業用フォルダの `extra.csv` から種類を読む。
 - 前月・翌月のはみ出し日（標準は `.other-month`、FullCalendar は `.fc-day-other`）に色が付かない。標準カレンダーの年表示のセル（`data-id` が月初日）に色と祝日名が付かない。
 - 標準カレンダーの月表示（`.day::after`）・週表示（セル先頭の `::before`）と、FullCalendar の月・週・日表示・リストに祝日名が出る。標準カレンダーの週表示は月をまたぐ日にも色が付く。
 - `FirstDayOfWeek` を 0 にしても標準カレンダーの土日色が日付どおりに付く（FullCalendar は常に月曜始まり）。
